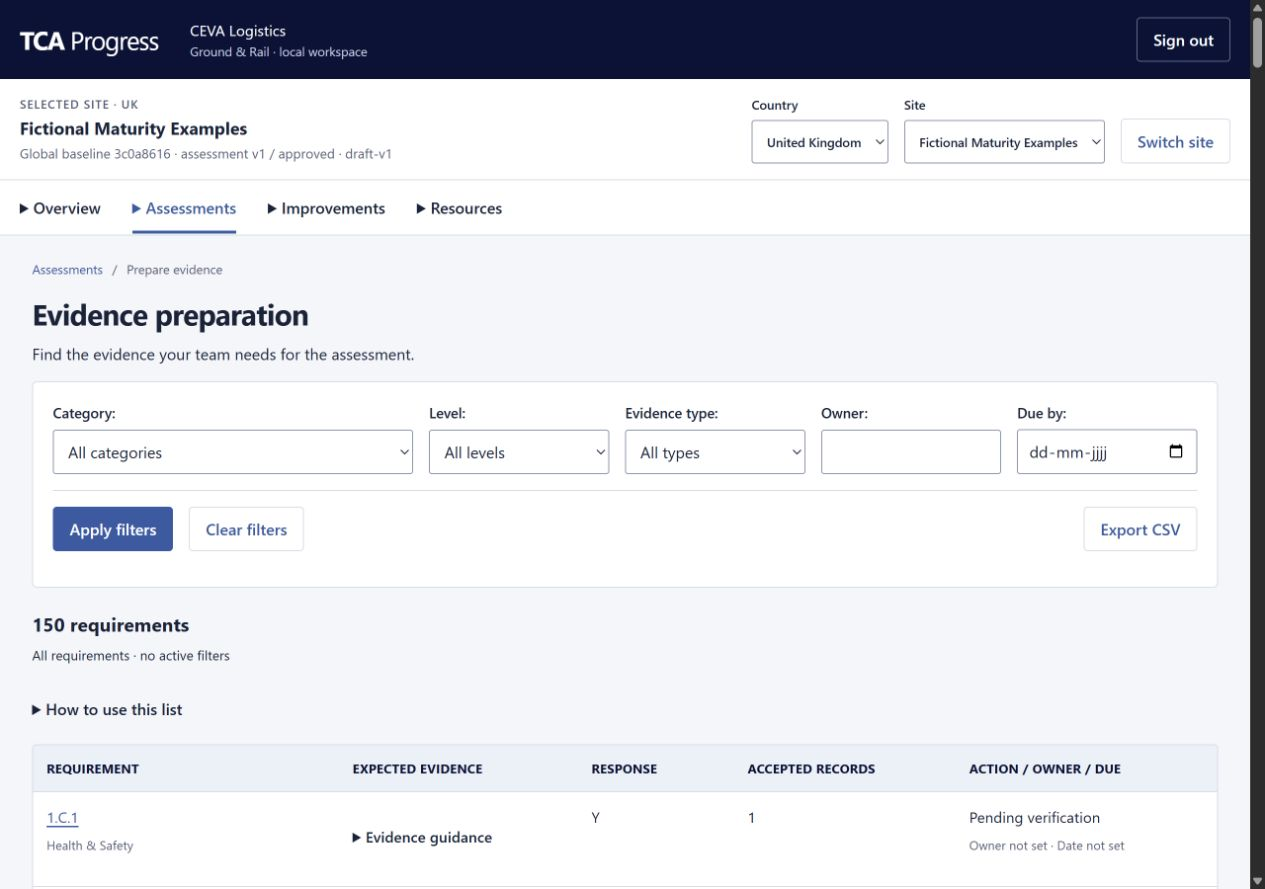
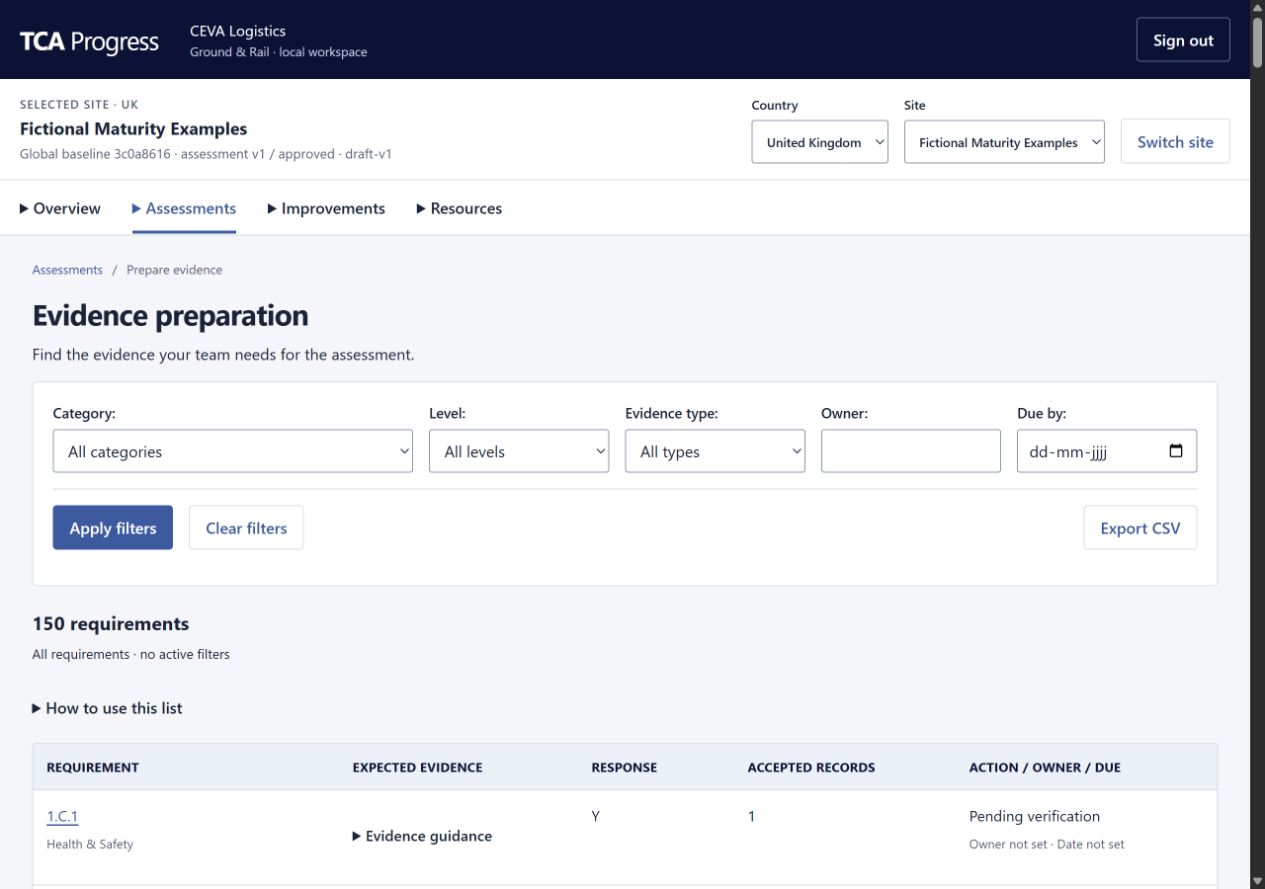
Align native controls and refresh verified layouts

diff --git a/core/static/core/workspace.css b/core/static/core/workspace.css
@@ -8,6 +8,7 @@ form label{display:grid;gap:6px;min-width:0}form input:not([type=checkbox]):not(
 @media(max-width:760px){.field-grid,.summary-grid{grid-template-columns:1fr}.filter-grid{grid-template-columns:repeat(2,minmax(0,1fr))}.filter-grid>.field:first-child{grid-column:1/-1}.nav-links{max-height:none}.filter-actions>*{flex:1}.filter-actions .export-action{margin-left:0}.event-heading h1{overflow-wrap:anywhere}.filter-panel{padding:16px}}
 @media(max-width:560px){.filter-grid{grid-template-columns:1fr}.filter-actions{align-items:stretch}.filter-actions>*{flex-basis:100%}.filter-grid>.field:first-child{grid-column:auto}}
 .assessment-table td:first-child{white-space:nowrap}
+input:not([type=hidden]):not([type=checkbox]):not([type=radio]),select:not([multiple]){height:44px;min-height:44px}
 @media(max-width:760px){.table-scroll .assessment-table{min-width:0;display:block}.assessment-table thead{position:absolute;width:1px;height:1px;overflow:hidden;clip-path:inset(50%)}.assessment-table tbody{display:block}.assessment-table tr{display:grid;grid-template-columns:auto 1fr auto;gap:.5rem;padding:1rem;border-bottom:1px solid var(--line)}.assessment-table td{display:block;border:0;padding:0}.assessment-table td:nth-child(1){grid-column:1;grid-row:1;font-weight:700}.assessment-table td:nth-child(2){grid-column:1/-1;grid-row:2}.assessment-table td:nth-child(3){grid-column:2;grid-row:1}.assessment-table td:nth-child(4){grid-column:3;grid-row:1}.assessment-table tr.empty-row{display:block}}
 dialog{max-width:min(480px,calc(100vw - 2rem));padding:1.5rem;border:1px solid var(--line);border-radius:5px;color:var(--ink)}dialog::backdrop{background:#05103966}
 @media(max-width:1000px){.location-bar{align-items:start;flex-direction:column}.location-form{width:100%}.location-form label{flex:1}.location-form select{max-width:100%;width:100%}nav{gap:1.2rem}}

diff --git a/templates/base.html b/templates/base.html
@@ -1,7 +1,7 @@
 {% load static %}<!doctype html>
 <html lang="en"><head><meta charset="utf-8"><meta name="viewport" content="width=device-width, initial-scale=1">
 <title>{% if page_label %}{{ page_label }} · {% endif %}TCA Progress</title>
-<link rel="stylesheet" href="{% static 'core/workspace.css' %}"><script defer src="{% static 'core/htmx.min.js' %}"></script><script defer src="{% static 'core/workspace.js' %}"></script>
+<link rel="stylesheet" href="{% static 'core/workspace.css' %}?v=r1-2"><script defer src="{% static 'core/htmx.min.js' %}"></script><script defer src="{% static 'core/workspace.js' %}"></script>
 </head><body><a class="skip-link" href="#main">Skip to content</a>
 <header class="app-header"><a class="app-name" href="{% url 'home' %}">TCA <span>Progress</span></a><span class="organization">{% if workspace_site %}{{ workspace_site.organization }}{% else %}CEVA Logistics{% endif %}<span>Ground &amp; Rail · local workspace</span></span>
 {% if user.is_authenticated %}<form method="post" action="{% url 'logout' %}" data-no-dirty>{% csrf_token %}<button class="header-button">Sign out</button></form>{% endif %}</header>

diff --git a/docs/STATUS.md b/docs/STATUS.md
@@ -20,6 +20,7 @@ The user's refinement brief selected a separate bounded sequence. R1 was complet
 - Compared against `backups/pre-refinement.sqlite3`: **856 pre-existing rows across 23 tables unchanged**. Original workbook hashes still match the recorded values. Browser testing used new fictional baseline/after events; earlier site, evidence, event and assessment records were preserved.
 - Actual browser pass: desktop (1280 px and default desktop size) and **390×844** narrow layouts, long filter labels/values, empty results, header selectors, keyboard menu navigation, modal layering/Keep editing, autosave error/retry/resume, action add/edit, comparable observations, prepared submission, sensei clarification, reply/resolution/local verification, and an approved-content edit returning to review with a changed Countermeasure flag.
 - Narrow page-width checks: 375 CSS px content within a 390 px viewport on evidence preparation and workspace. Date autosave errors retained the entered dates and set `aria-invalid=true`. No dropdown-bearing modal exists in R1; the existing unsaved-work modal was inspected above the header and closed by keyboard.
+- Final native-control sizing check: all five evidence filter controls measured exactly **44 CSS px** high. A versioned stylesheet URL clears the stale development-browser asset cache; final desktop/narrow screenshots were refreshed.
 - SQLite backup/restore after the new history model: integrity `ok`, catalog 15/150/494; live and restored databases each had **17 revision snapshots and 2 review notes**. Shared PostgreSQL recovery remains unverified.
 - Before/after screenshots saved in `docs/verification/refinement-preparation-{before,after}.jpg` and corresponding narrow files, plus sensei queue desktop/narrow captures. Local server remains at `127.0.0.1:8000` with the README startup command.
 
